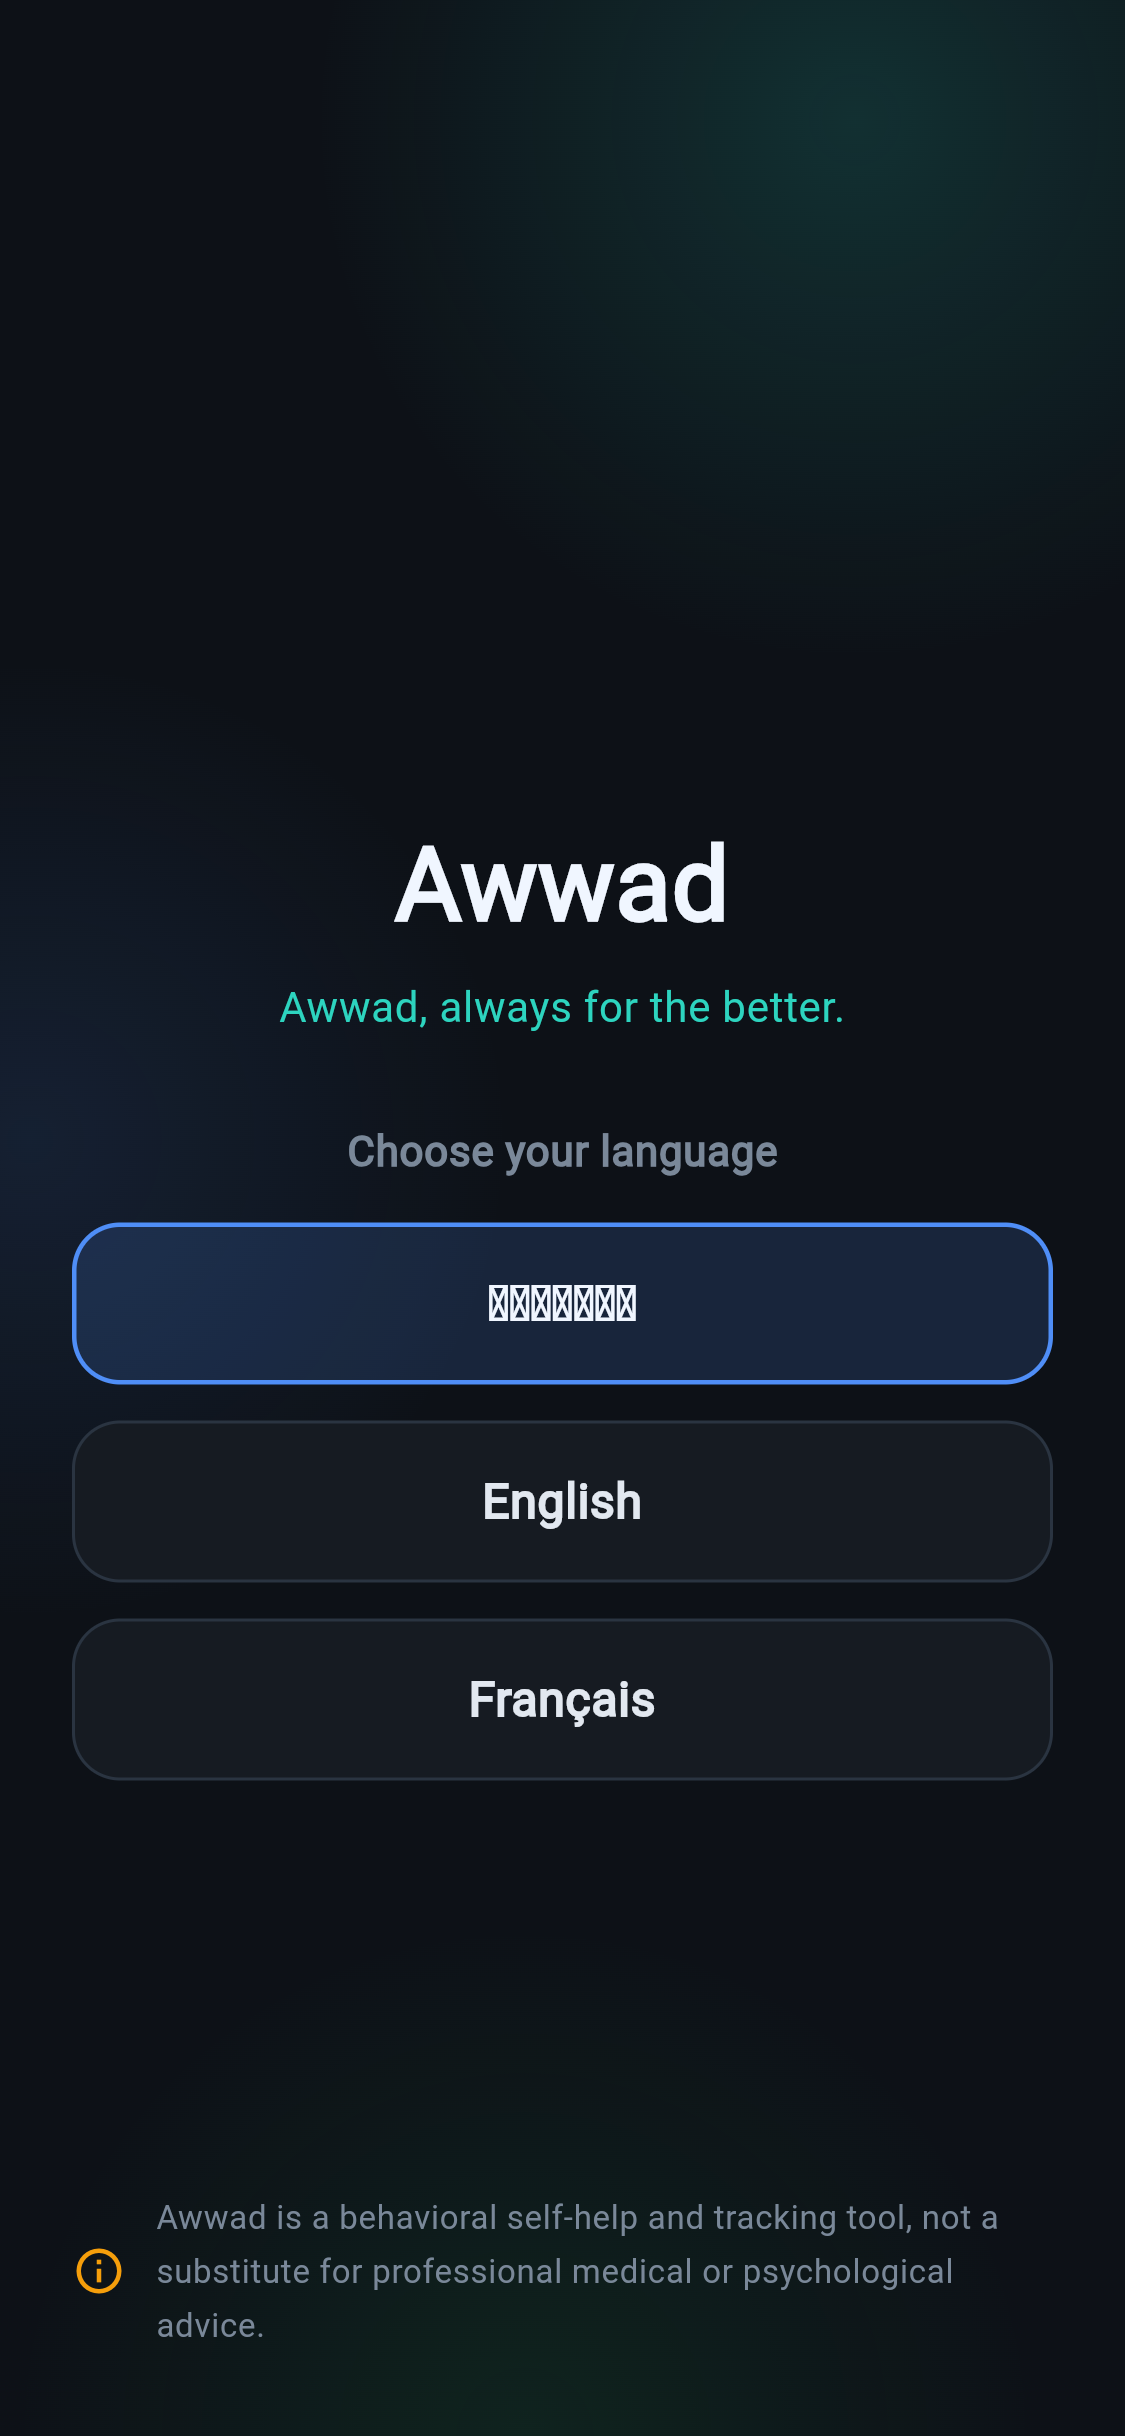
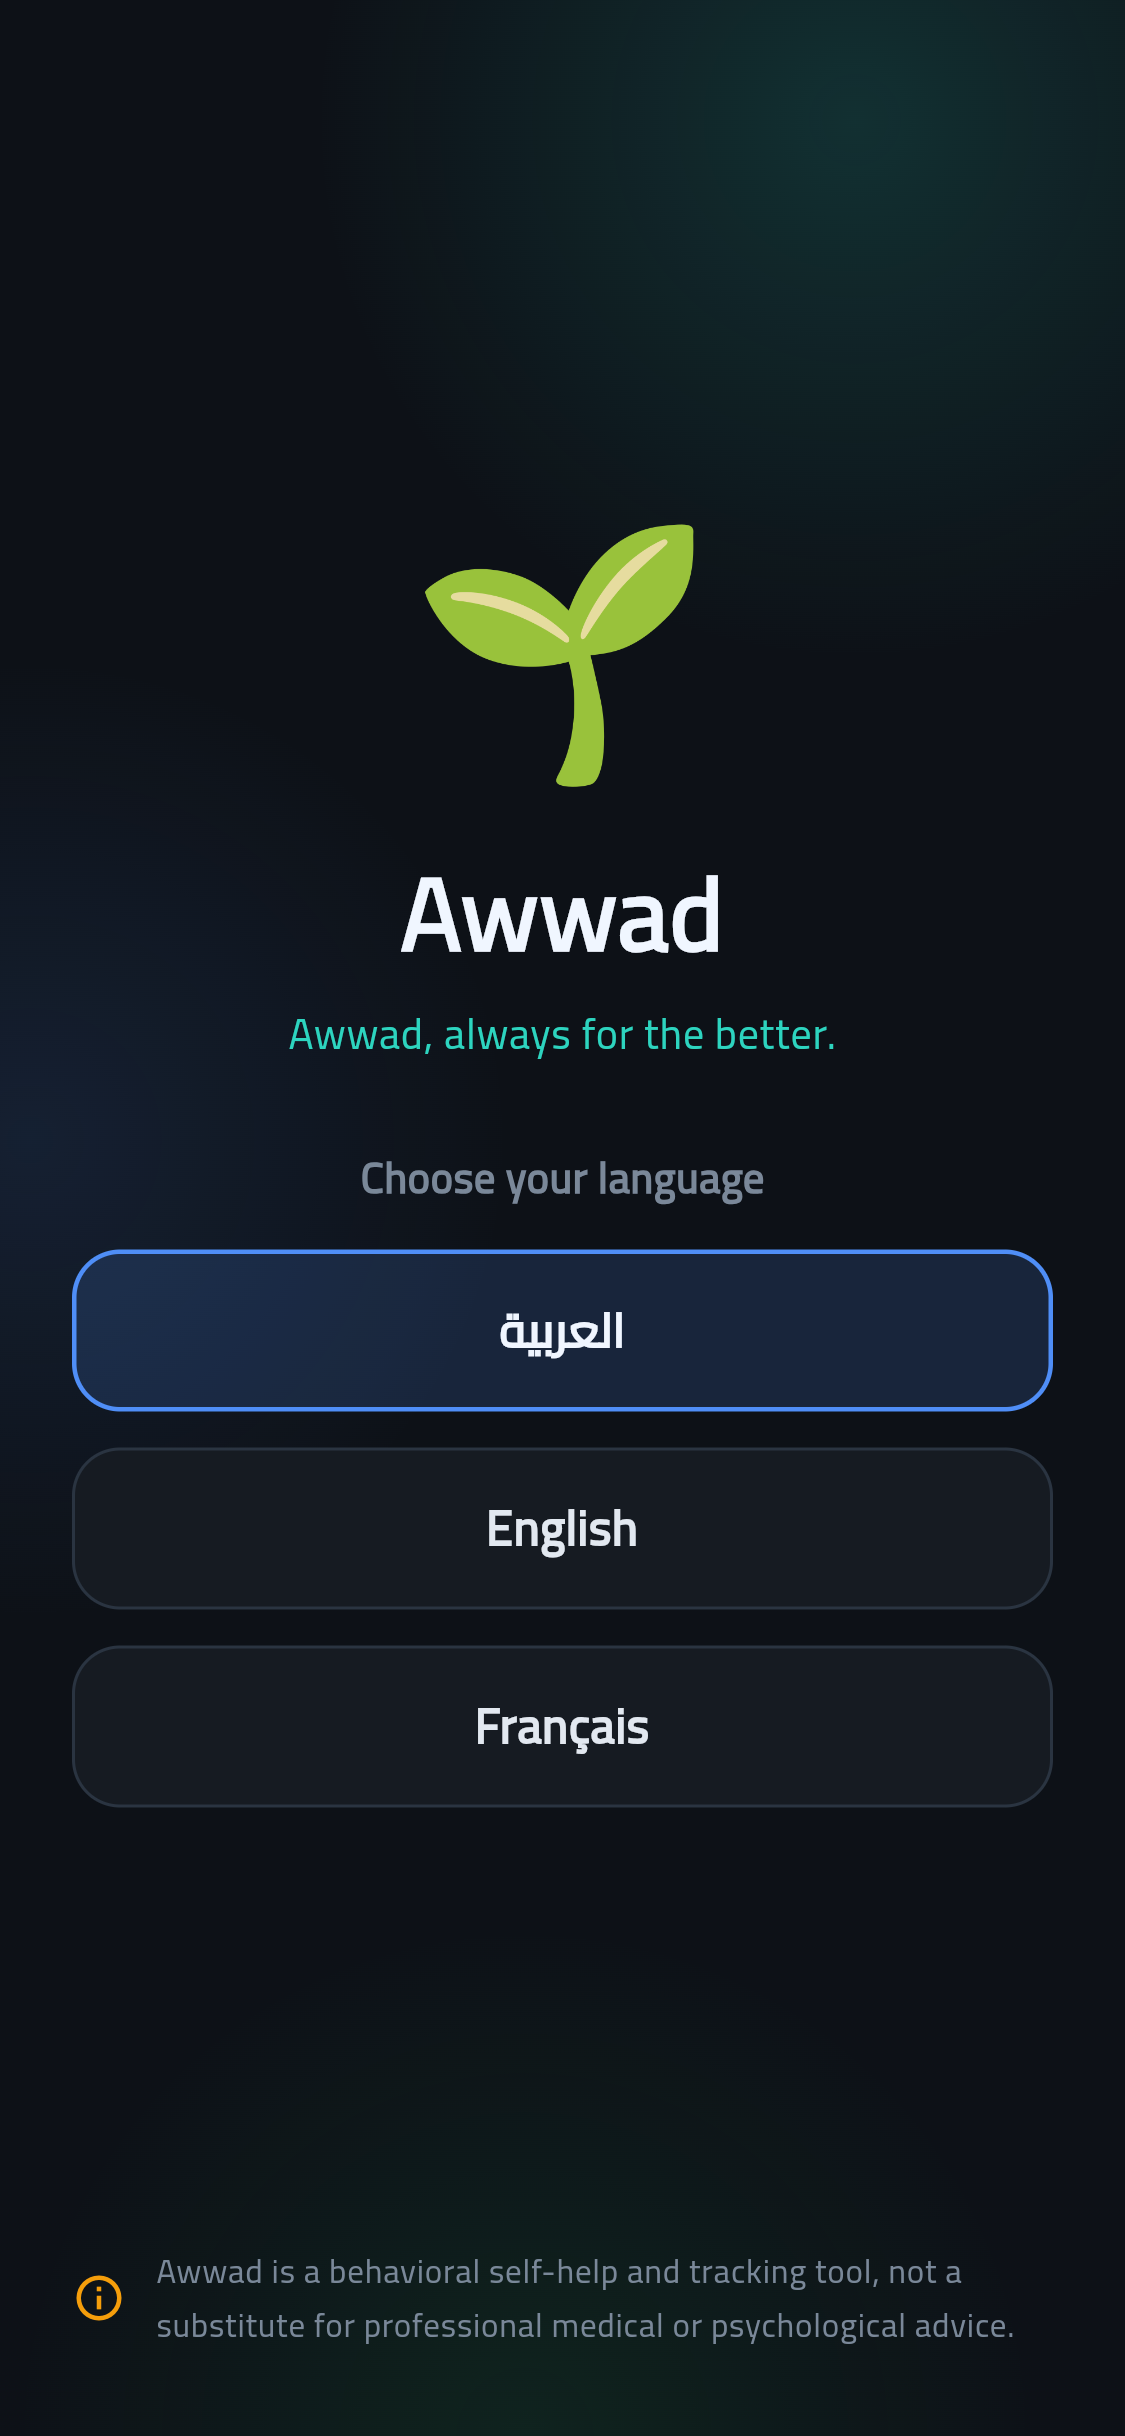
MANDATE_PLAN Round 6: verified videos for 13 habits, dead search path deleted
Agents proposed 14 candidates; every id was verified against YouTube for
existence, embeddability and true duration before it could ship, and the
durations stored are YouTube's own. impulse_buying was dropped on the
numbers (905s vs the owner's 900s limit): no card beats a bent rule.
Clinical habits get medical/psychological sources, conduct habits get a
scholar. The dead YouTube-search fallback is gone. analyze clean, 119/119.

diff --git a/app/lib/core/catalog/habit_daily_content.dart b/app/lib/core/catalog/habit_daily_content.dart
@@ -25,6 +25,45 @@ class ScholarVideo {
 }
 
 const Map<String, List<ScholarVideo>> kHabitVideos = {
+  'quit_smoking': [
+    ScholarVideo(id: 'mahHH2ArUo0', title: 'فرصة عمرك لتبطيل التدخين هي رمضان | إعرف أسرار محدش قالك عليها!', scholar: 'YourDocCast | بودكاست طبيبك', seconds: 561),
+  ],
+  'quit_vaping': [
+    ScholarVideo(id: 'KSUPAm51pfM', title: 'فارماستان - الفيب و السجائر الالكترونية', scholar: 'Pharmastan - فارماستان', seconds: 768),
+  ],
+  'caffeine_excess': [
+    ScholarVideo(id: 'n8Ek-4wtphU', title: 'سر في قهوتك بيدمر نومك! ☕️⚠️ إمتى تكون القهوة خطر؟ وايه حكاية الـ Decaf؟', scholar: 'Dr. Ahmed Elshafei د أحمد الشافعي', seconds: 186),
+  ],
+  'hair_pulling': [
+    ScholarVideo(id: 'NKEuwbzbKJ4', title: 'هوس نتف الشعر الأعراض والعلاج | دكتور محمود الوصيفي أستاذ الطب النفسي', scholar: 'محمود الوصيفي طب نفسي أطفال وبالغين', seconds: 269),
+  ],
+  'skin_picking': [
+    ScholarVideo(id: 'PdiNj-r1SRo', title: 'أهم أعراض هوس نتف الجلد| سلسلة أشباه الوسواس القهري| الجزء السابع| دكتور محمود الوصيفي| الطب النفسي', scholar: 'محمود الوصيفي طب نفسي أطفال وبالغين', seconds: 49),
+  ],
+  'phone_addiction': [
+    ScholarVideo(id: 'NdWgjha0u8U', title: 'إدمان الهواتف .. خطر صامت يهدد الصحة النفسية والجسدية', scholar: 'MEDI1 TV', seconds: 152),
+  ],
+  'excessive_gaming': [
+    ScholarVideo(id: 'BiLuivIxKLA', title: 'الحكيم في بيتك | كيفية علاج إدمان ألعاب الفيديو', scholar: 'CBC Egypt', seconds: 216),
+  ],
+  'procrastination': [
+    ScholarVideo(id: '22CW76-SARA', title: 'علي وكتاب - حل لغز التسويف Solving The Procrastination Puzzle', scholar: 'Ali Muhammad Ali', seconds: 676),
+  ],
+  'oversleeping': [
+    ScholarVideo(id: 'DnfUno7EyTA', title: 'النوم الكثير.. راحة أم علامة على مرض خطير؟.. الدكتور حسام موافي يوضح', scholar: 'Sada Elbalad - صدى البلد', seconds: 261),
+  ],
+  'late_nights': [
+    ScholarVideo(id: 'PPruqroGMIs', title: 'السهر لوقت متأخر وقلة النوم تسبب هذا المرض | #الصباح', scholar: 'سكاي نيوز عربية', seconds: 90),
+  ],
+  'bad_language': [
+    ScholarVideo(id: '78UsKNWiip8', title: 'خطبة الجمعة بعنوان #الفحش والبذاءة في اللسان للشيخ منصور بن ناصر الخالدي', scholar: 'قسم الدعوة والإرشاد بجمعية الهداية الخيرية', seconds: 599),
+  ],
+  'anger': [
+    ScholarVideo(id: 'CkgzD2XEG4M', title: 'كيفية التحكم بالغضب | برنامج نصيحة طبيب', scholar: 'Sharjah TV - تلفزيون الشارقة', seconds: 596),
+  ],
+  'junk_food': [
+    ScholarVideo(id: 'bZ__oH5QB60', title: 'اسئلة الناس عن كيفية اختيار اطعمة صحية في مطاعم الوجبات السريعة - د. ربى مشربش - تغذية', scholar: 'Donya Ya Donya', seconds: 637),
+  ],
   'secret_habit': [
     ScholarVideo(id: '-MBzN7N5FUk', title: 'خطوات ذهبية لعلاج إدمان الإباحية والعادة السرية 100%', scholar: 'قناة واعي', seconds: 761),
     ScholarVideo(id: '46q4vjTuKIY', title: 'نصائح ذهبية لترك الإباحية والعادة السرية', scholar: 'قناة واعي', seconds: 230),

diff --git a/app/lib/core/catalog/habit_content.dart b/app/lib/core/catalog/habit_content.dart
@@ -25,13 +25,6 @@ List<String> habitChecklistLabels(
   return list.map((m) => m[locale] ?? m['ar'] ?? '').toList();
 }
 
-/// A YouTube search URL for the habit's recommended scholar video, or null.
-String? habitVideoSearchUrl(String? catalogKey) {
-  if (catalogKey == null) return null;
-  final q = kHabitVideoQuery[catalogKey];
-  if (q == null) return null;
-  return 'https://www.youtube.com/results?search_query=${Uri.encodeQueryComponent(q)}';
-}
 
 const Map<String, HabitChecklists> kHabitChecklists = {
   'quit_smoking': HabitChecklists(
@@ -307,24 +300,3 @@ const Map<String, HabitChecklists> kHabitChecklists = {
   ),
 };
 
-// Scholar-video search query per break habit (Arabic). Built into a YouTube
-// search URL at runtime; shown only when the device is online.
-const Map<String, String> kHabitVideoQuery = {
-  'quit_smoking': "مصطفى العدوي حكم التدخين والإقلاع عن السجائر",
-  'quit_vaping': "مصطفى العدوي حكم السجائر الإلكترونية الفيب والتدخين",
-  'nail_biting': "مصطفى العدوي حكم قضم الأظافر",
-  'hair_pulling': "عبدالرحمن ذاكر الهاشمي علاج الوسواس القهري والعادات القهرية",
-  'skin_picking': "عبدالرحمن ذاكر الهاشمي علاج القلق والتوتر والعادات القهرية",
-  'phone_addiction': "مصطفى العدوي حكم إضاعة الوقت في الجوال ووسائل التواصل",
-  'excessive_gaming': "مصطفى العدوي حكم إضاعة الوقت في الألعاب الإلكترونية",
-  'procrastination': "التسويف وتأخير العمل عبدالرحمن ذاكر الهاشمي",
-  'junk_food': "مصطفى العدوي الإسراف في الأكل وكثرة الشبع وذم الشره",
-  'oversleeping': "مصطفى العدوي علاج كثرة النوم والكسل عن العبادة",
-  'gossip': "مصطفى العدوي التحذير من الغيبة والنميمة وحفظ اللسان",
-  'bad_language': "مصطفى العدوي حفظ اللسان والسب والشتم",
-  'impulse_buying': "مصطفى العدوي الإسراف والتبذير في الشراء والإنفاق",
-  'caffeine_excess': "مصطفى العدوي الاعتدال وعدم الإسراف في الطعام والشراب",
-  'late_nights': "مفاسد السهر وأهمية النوم المبكر مصطفى العدوي",
-  'binge_watching': "حكم إضاعة الوقت في المشاهدة مصطفى العدوي",
-  'anger': "علاج الغضب وكظم الغيظ مصطفى العدوي",
-};

diff --git a/docs/MANDATE_PLAN.md b/docs/MANDATE_PLAN.md
@@ -55,7 +55,7 @@
 
 ## Round 6 - Verified scholar-video curation for 15 break habits (research workflow + app build)
 
-- [~] TOOLING READY 2026-07-19 r17 (ops/shotgen/verify_videos.mjs mechanically validates any candidate id against YouTube; the curation research run itself is still pending): [ux CU11, medium/medium] Run the established research + adversarial-verify workflow to curate 1-2 verified <30-min videos per habit from the approved scholars for the 15 break habits that lost their card when the curated-only rule landed (quit_smoking, quit_vaping, nail_biting, hair_pulling, skin_picking, phone_addiction, excessive_gaming, procrastination, junk_food, oversleeping, bad_language, impulse_buying, caffeine_excess, late_nights, binge_watching, anger); regenerate kHabitVideos via assemble_daily_content.mjs and delete the now-dead kHabitVideoQuery + habitVideoSearchUrl code (habit_content.dart:29-34, 312-330). The research workflow can be started in parallel during rounds 4-5; this round is the merge + build.
+- [x] DONE 2026-07-19 r18 (13 habits gained a mechanically-verified video; impulse_buying deliberately left empty at 905s vs the 900s rule; dead search fallback deleted): [ux CU11, medium/medium] Run the established research + adversarial-verify workflow to curate 1-2 verified <30-min videos per habit from the approved scholars for the 15 break habits that lost their card when the curated-only rule landed (quit_smoking, quit_vaping, nail_biting, hair_pulling, skin_picking, phone_addiction, excessive_gaming, procrastination, junk_food, oversleeping, bad_language, impulse_buying, caffeine_excess, late_nights, binge_watching, anger); regenerate kHabitVideos via assemble_daily_content.mjs and delete the now-dead kHabitVideoQuery + habitVideoSearchUrl code (habit_content.dart:29-34, 312-330). The research workflow can be started in parallel during rounds 4-5; this round is the merge + build.
 
 ## Round 7 - Store-compliance code changes (app build/deploy; hard submission blockers)
 